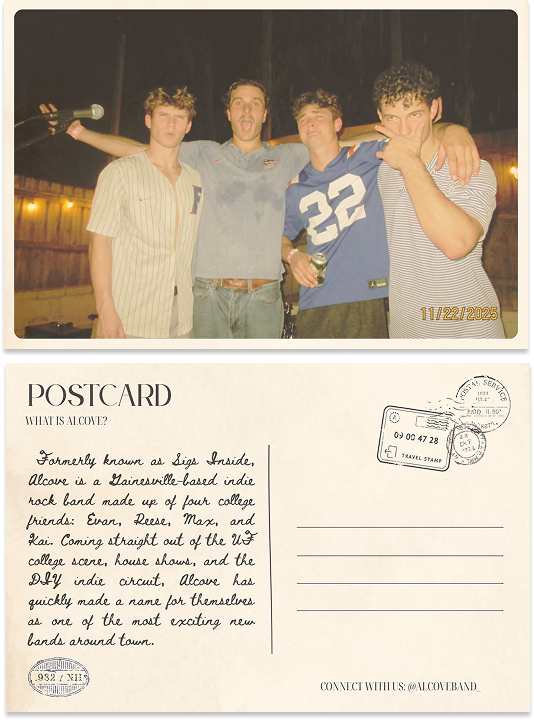
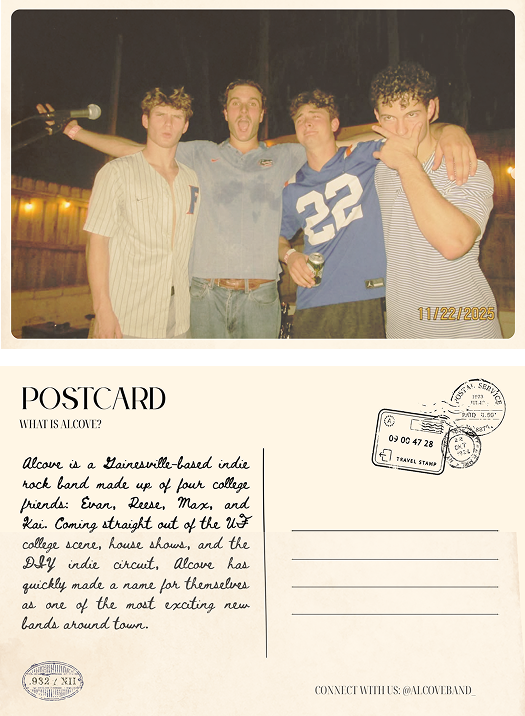
added new postcard images to home

diff --git a/src/app/_components/home_image_swapper.tsx b/src/app/_components/home_image_swapper.tsx
@@ -6,6 +6,9 @@ export default function ImageSwapper() {
     const [images, setImages] = useState ([
         {id: 1, src: "/postcard1_home.png", alt: "postcard1"},
         {id: 2, src: "/postcard2_home.png", alt: "postcard2"},
+        {id: 3, src: "/postcard3_home.png", alt: "postcard3"},
+        {id: 4, src: "/postcard4_home.png", alt: "postcard4"},
+        {id: 5, src: "/postcard5_home.png", alt: "postcard5"}
     ]);
 
     //used when right arrow is clicked (brings the first image to the end of the array))
@@ -35,7 +38,7 @@ export default function ImageSwapper() {
             {images.map((img, index) => (
                 <img
                     key={img.id}
-                    className={`postcard-img ${img.id === 2 ? 'postcard-img--wide' : 'postcard-img--standard'}`}
+                    className={`postcard-img ${img.id === 2 || img.id === 3 || img.id === 4 || img.id === 5 ? 'postcard-img--wide' : 'postcard-img--standard'}`}
                     src={img.src}
                     alt={img.alt}
                     style={{
